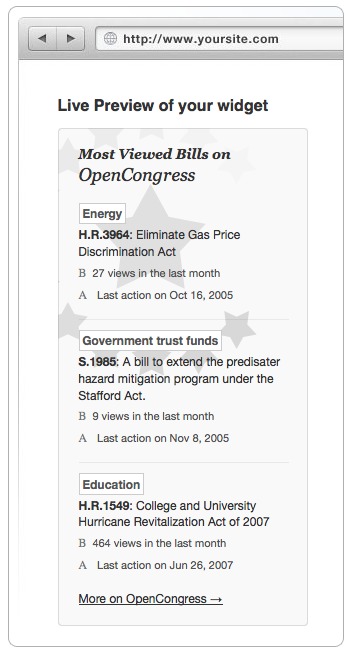
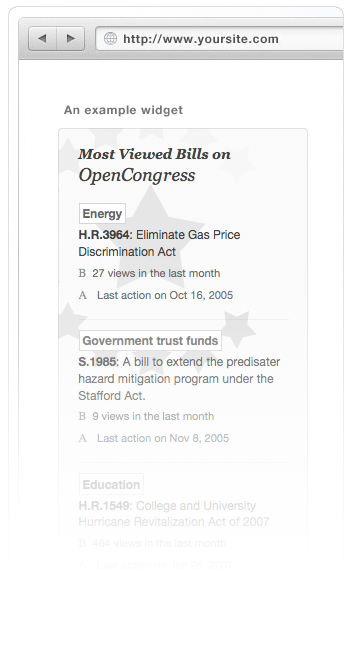
tuesdays work

diff --git a/public/stylesheets/master.css b/public/stylesheets/master.css
@@ -4508,14 +4508,18 @@ background: url(../images/donate/big_arrow.gif) 0 1px repeat;
 
 
 
+.banner2 h1{
+position: relative;
+}
+
 
 .banner2{
-left: 69px;
-height: 151px;width: 1002px;
+height: 151px;
+top: 0;
+width: 1002px;
 background:#e9e8f3;
 background: url(../images/banner2.png) 0 -1px;
-
-top: 257px;
+position: relative;
 text-align: center;
 }
 
@@ -4543,14 +4547,37 @@ background: url(../images/banner2-right.png) top right no-repeat;
 
 .banner2 h1{
 font-size: 30px;
-padding: 45px 0 10px;
+padding: 5px 0 10px;
 }
 
 
 
 .banner2 h2{
-
+padding-top: 45px;
 }
+
+
+.v3{
+background: rgba(0,0,0, .1);
+-moz-border-radius: 40px;
+-webkit-border-radius: 40px;
+border-radius: 40px;
+width: 60px;
+text-align: center;
+line-height: 60px;
+position: absolute;
+top: -18px;
+font-size: 16px;
+right: 320px;
+display: inline-block;
+font-family
+-moz-box-shadow: 0 1px 0 rgba(255,255,255, .3);
+}
+
+
+
+
+
 
 .don{
 
@@ -5534,9 +5561,9 @@ div.list {
   background: url(../images/og-widg.jpg) right 65px no-repeat;
   float: left;
   min-height: 500px;
-  width: 400px;
-padding-top: 50px;
-margin-left: 90px;
+  width: 590px;
+padding-top: 20px;
+margin-left: 17px;
 }
 
 
@@ -5544,22 +5571,27 @@ div.list h2 {
   margin-left: 20px;
 }
 
+div.list h3 {
+  margin-bottom: 4px;
+}
+
+
 
 div.list ul {
   padding: 0px;
   border: 1px solid rgba(101, 101, 101, 0.2);
-  background: rgba(101, 101, 101, 0.2);
+  background: #e1eaf5;
   -moz-border-radius: 5px;
   -webkit-border-radius: 5px;
   -o-border-radius: 5px;
   -ms-border-radius: 5px;
-  width: 320px;
-  margin: 0 0 0 20px;
+  width: 570px;
+  margin: 0 0px 0 20px;
 }
 
 
 div.list ul li {
-  padding: 20px 30px 5px;
+  padding: 20px 30px 15px;
   border-bottom: 1px solid #aaa;
 }
 
@@ -5590,10 +5622,10 @@ float: left;
 background: url(../images/widget-example.png) no-repeat !important;
 overflow: auto;
 height: 500px;
-float: left !important;
+float: right !important;
 width: 350px;
-
-margin-top: 63px;
+margin-right: 30px;
+margin-top: 56px;
 }
 
 

diff --git a/public/stylesheets/classes.css b/public/stylesheets/classes.css
@@ -956,25 +956,4 @@ background: rgba(54,205,143, .2);
 }
 
 
-.banner2 h1{
-position: relative;
-}
-
-.v3{
-background: rgba(0,0,0, .1);
--moz-border-radius: 40px;
--webkit-border-radius: 40px;
-border-radius: 40px;
-width: 60px;
-text-align: center;
-line-height: 60px;
-position: absolute;
-top: 25px;
-font-size: 16px;
-right: 320px;
-display: inline-block;
-font-family
--moz-box-shadow: 0 1px 0 rgba(255,255,255, .3);
-}
-
 

diff --git a/public/stylesheets/about.css b/public/stylesheets/about.css
@@ -111,3 +111,15 @@ pre code {
 .hideme {
   display:none;
 }
+
+.like-button{
+float: left;
+margin-top: 20px;
+}
+
+.twitter-share-button{
+float: right;
+margin-top: 20px;
+}
+
+
